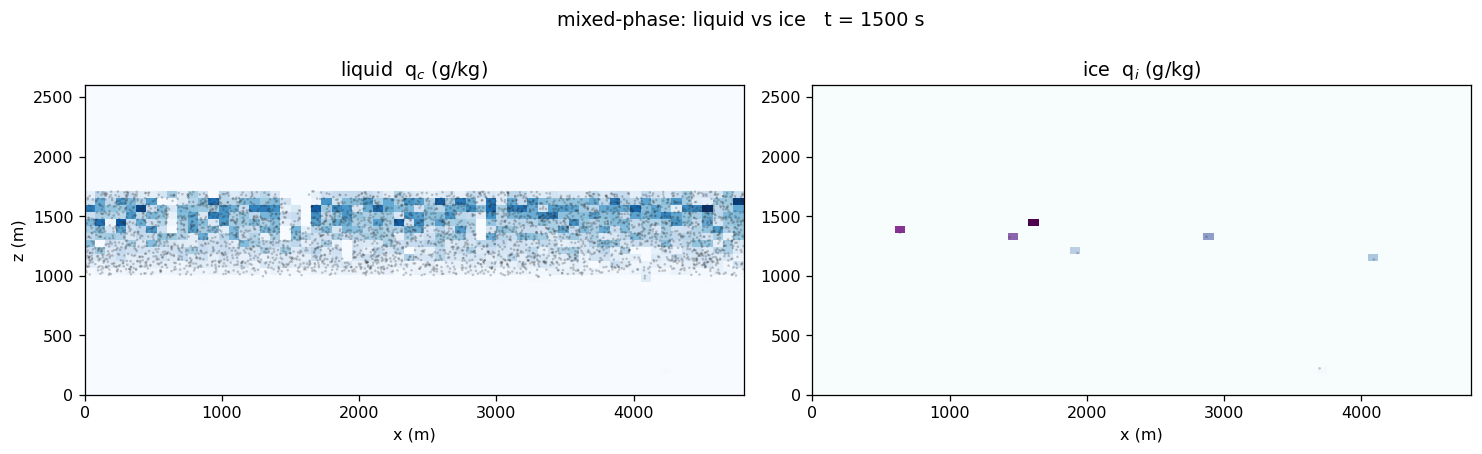
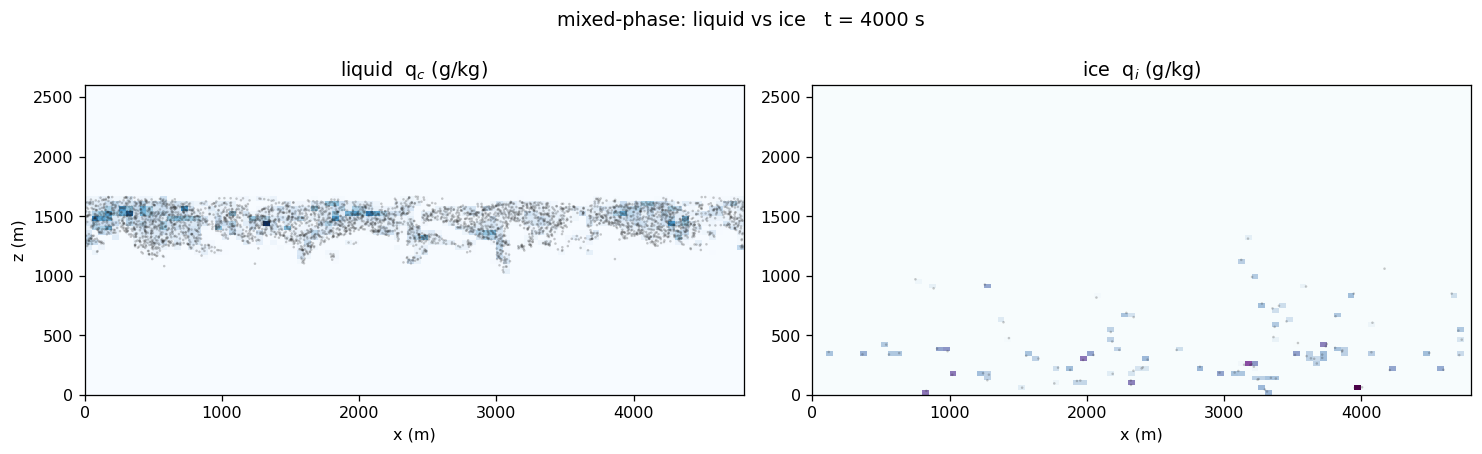
fix: Bergeron -> WBF (three-name process); richer mixed-phase still (4000s spin-up)

diff --git a/app/ui/plots.py b/app/ui/plots.py
@@ -5,7 +5,7 @@ The 2-D field renders REUSE the proven droplab renderers
 (``flow2d_viz.draw_frame``, ``flow2d_viz.draw_storm_electric``) by passing a
 lightweight flow proxy rebuilt from the cached ``meta`` scalars — so the look
 matches the notebooks and example scripts exactly, and the cache never has to
-pickle a Flow2D object. The crystal-habit gallery and the mixed-phase / Bergeron
+pickle a Flow2D object. The crystal-habit gallery and the mixed-phase / Wegener–Bergeron–Findeisen
 views are adapted from ``examples/_habit_still.py`` and
 ``examples/cloud_cases.py``.
 
@@ -76,7 +76,7 @@ def regime_views(result):
         views.append(("phase", "Liquid vs ice",
                       "The condensate split into supercooled liquid (q_c) and "
                       "ice (q_i). Sedimenting ice is the model's snow."))
-        views.append(("bergeron", "Bergeron hand-off",
+        views.append(("bergeron", "WBF hand-off",
                       "Domain liquid- and ice-water paths over time — supercooled "
                       "liquid converting to ice (the Wegener–Bergeron–Findeisen process)."))
     if "phi" in f0:

diff --git a/app/ui/presets.py b/app/ui/presets.py
@@ -75,7 +75,7 @@ SCENARIOS = {
     # --- Cold & mixed-phase ---
     "arctic":    dict(group="Cold & mixed-phase", case="arctic",
                       label="Arctic mixed-phase deck (MOSAiC)",
-                      blurb="A supercooled-liquid deck slowly glaciating by Bergeron (WBF) — "
+                      blurb="A supercooled-liquid deck slowly glaciating by the Wegener–Bergeron–Findeisen (WBF) process — "
                             "give it time to overturn.",
                       ice_default=True, ice_capable=True, allow_electrify=False,
                       default_min=75, dt_default=1.0),
@@ -182,7 +182,7 @@ DEMOS = [
     dict(key="arctic", title="❄️ Arctic mixed-phase (WBF)", page="2D",
          scenario="arctic",
          toggles=dict(ice=True),
-         pitch="A supercooled liquid deck with a few ice crystals growing by Bergeron."),
+         pitch="A supercooled liquid deck with a few ice crystals growing by the Wegener–Bergeron–Findeisen (WBF) process."),
     dict(key="habit", title="✦ Ice-habit gallery", page="2D",
          scenario="deep_cold",
          toggles=dict(ice=True, habit=True),

diff --git a/README.md b/README.md
@@ -45,7 +45,7 @@ four-mode browser sandbox for teaching.
 <p align="center">
   <img src="docs/assets/twod_mixedphase.png" width="90%"
        alt="Arctic mixed-phase deck: liquid vs ice">
-  <br><em>Arctic mixed-phase deck: supercooled liquid with ice growing by Bergeron (liquid | ice)</em>
+  <br><em>Arctic mixed-phase deck: supercooled liquid with ice growing by the Wegener–Bergeron–Findeisen (WBF) process (liquid | ice)</em>
 </p>
 
 All images are produced by the model itself (`scripts/make_readme_assets.py`, quick-look